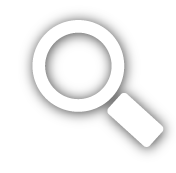
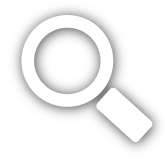
UI tweaks

diff --git a/client/src/Search.module.css b/client/src/Search.module.css
@@ -1,21 +1,23 @@
 form {
     flex: 1;
-    max-width: 100%;
+    max-width: calc(100% - 2rem);
     text-align: left;
     display: inline-flex;
-    padding: 1rem
+    border: 1px solid rgb(220,220,220);
+    border-radius: 3px;
+    overflow: hidden;
+    box-shadow: 0 2px 3px rgba(0,0,0,0.06);
+    margin: 1rem
 }
 
 input {
     font: inherit;
     padding: .5rem;
     color: var(--secondary);
-    border: 2px solid var(--secondary);
+    border: none;
     width: 100%;
     line-height: 2rem;
     font-size: 1.5rem;
-    border-width: 2px 0 2px 2px;
-    box-shadow: var(--secondary) 0 0 3px inset;
 }
 
 input:focus {
@@ -25,9 +27,8 @@ input:focus {
 
 .button {
     height: 3.3rem;
-    width: 3.3rem;
-    background: url(./img/search-icon.png) no-repeat center / contain var(--green);
-    border: 2px solid var(--secondary);
-    border-width: 2px 2px 2px 0;
+    width: 4.2rem;
+    background: url(./img/search-icon.png) no-repeat  center / 75% var(--green);
+    border: 0;
     text-indent: 100%;
 }

diff --git a/client/src/App.module.css b/client/src/App.module.css
@@ -3,6 +3,7 @@
     display: flex;
     flex-flow: column;
     transition: all .5s;
+    /* background: linear-gradient(to bottom right, var(--blue,.5), var(--purple,.5) 26%, var(--red,.5) 50%, var(--yellow,.5) 74%, var(--green,.5)); */
 }
 
 .top {
@@ -22,7 +23,8 @@
     display: block;
     width: 100%;
     content: "";
-    background: linear-gradient(to right, #00a0de, #ca4f97 26%, #ea5045 50%, #f9b123 74%, #75b843);
+    /* background: linear-gradient(to right, #00a0de, #ca4f97 26%, #ea5045 50%, #f9b123 74%, #75b843); */
+    background: linear-gradient(to right, var(--blue), var(--purple) 26%, var(--red) 50%, var(--yellow) 74%, var(--green));
 }
 
 

diff --git a/client/src/main.css b/client/src/main.css
@@ -1,8 +1,12 @@
 :root {
-    --main: rgb(7, 7, 7);
+    --main: rgb(20, 20, 20);
     --secondary: rgb(130,130,130);
-    --red: rgb(234, 80, 69);
+    --light: rgb(250,250,250);
+    --red: rgb(240, 80, 70);
     --green: rgb(117, 184, 67);
+    --blue: rgb(0, 160, 222);
+    --purple: rgb(202, 79, 151);
+    --yellow: rgb(249, 177, 35);
 }
 
 * {
@@ -15,6 +19,7 @@ body {
     margin: 0;
     font: 14px Rubik, Arial, sans-serif;
     color: var(--main);
+    background: var(--light);
     text-align: left;
 }
 

diff --git a/client/src/Results.module.css b/client/src/Results.module.css
@@ -16,11 +16,11 @@
     display: flex;
     flex-flow: column;
     align-items: center;
-    
 }
 
 .ul li {
     padding: 2px;
+    overflow: hidden;
 }
 
 .ul li > a {
@@ -31,6 +31,7 @@
 .ul li > a img {
     height: auto;
     width: 100%;
+    border-radius: 3px;    
 }
 
 @media(min-width: 640px) {
